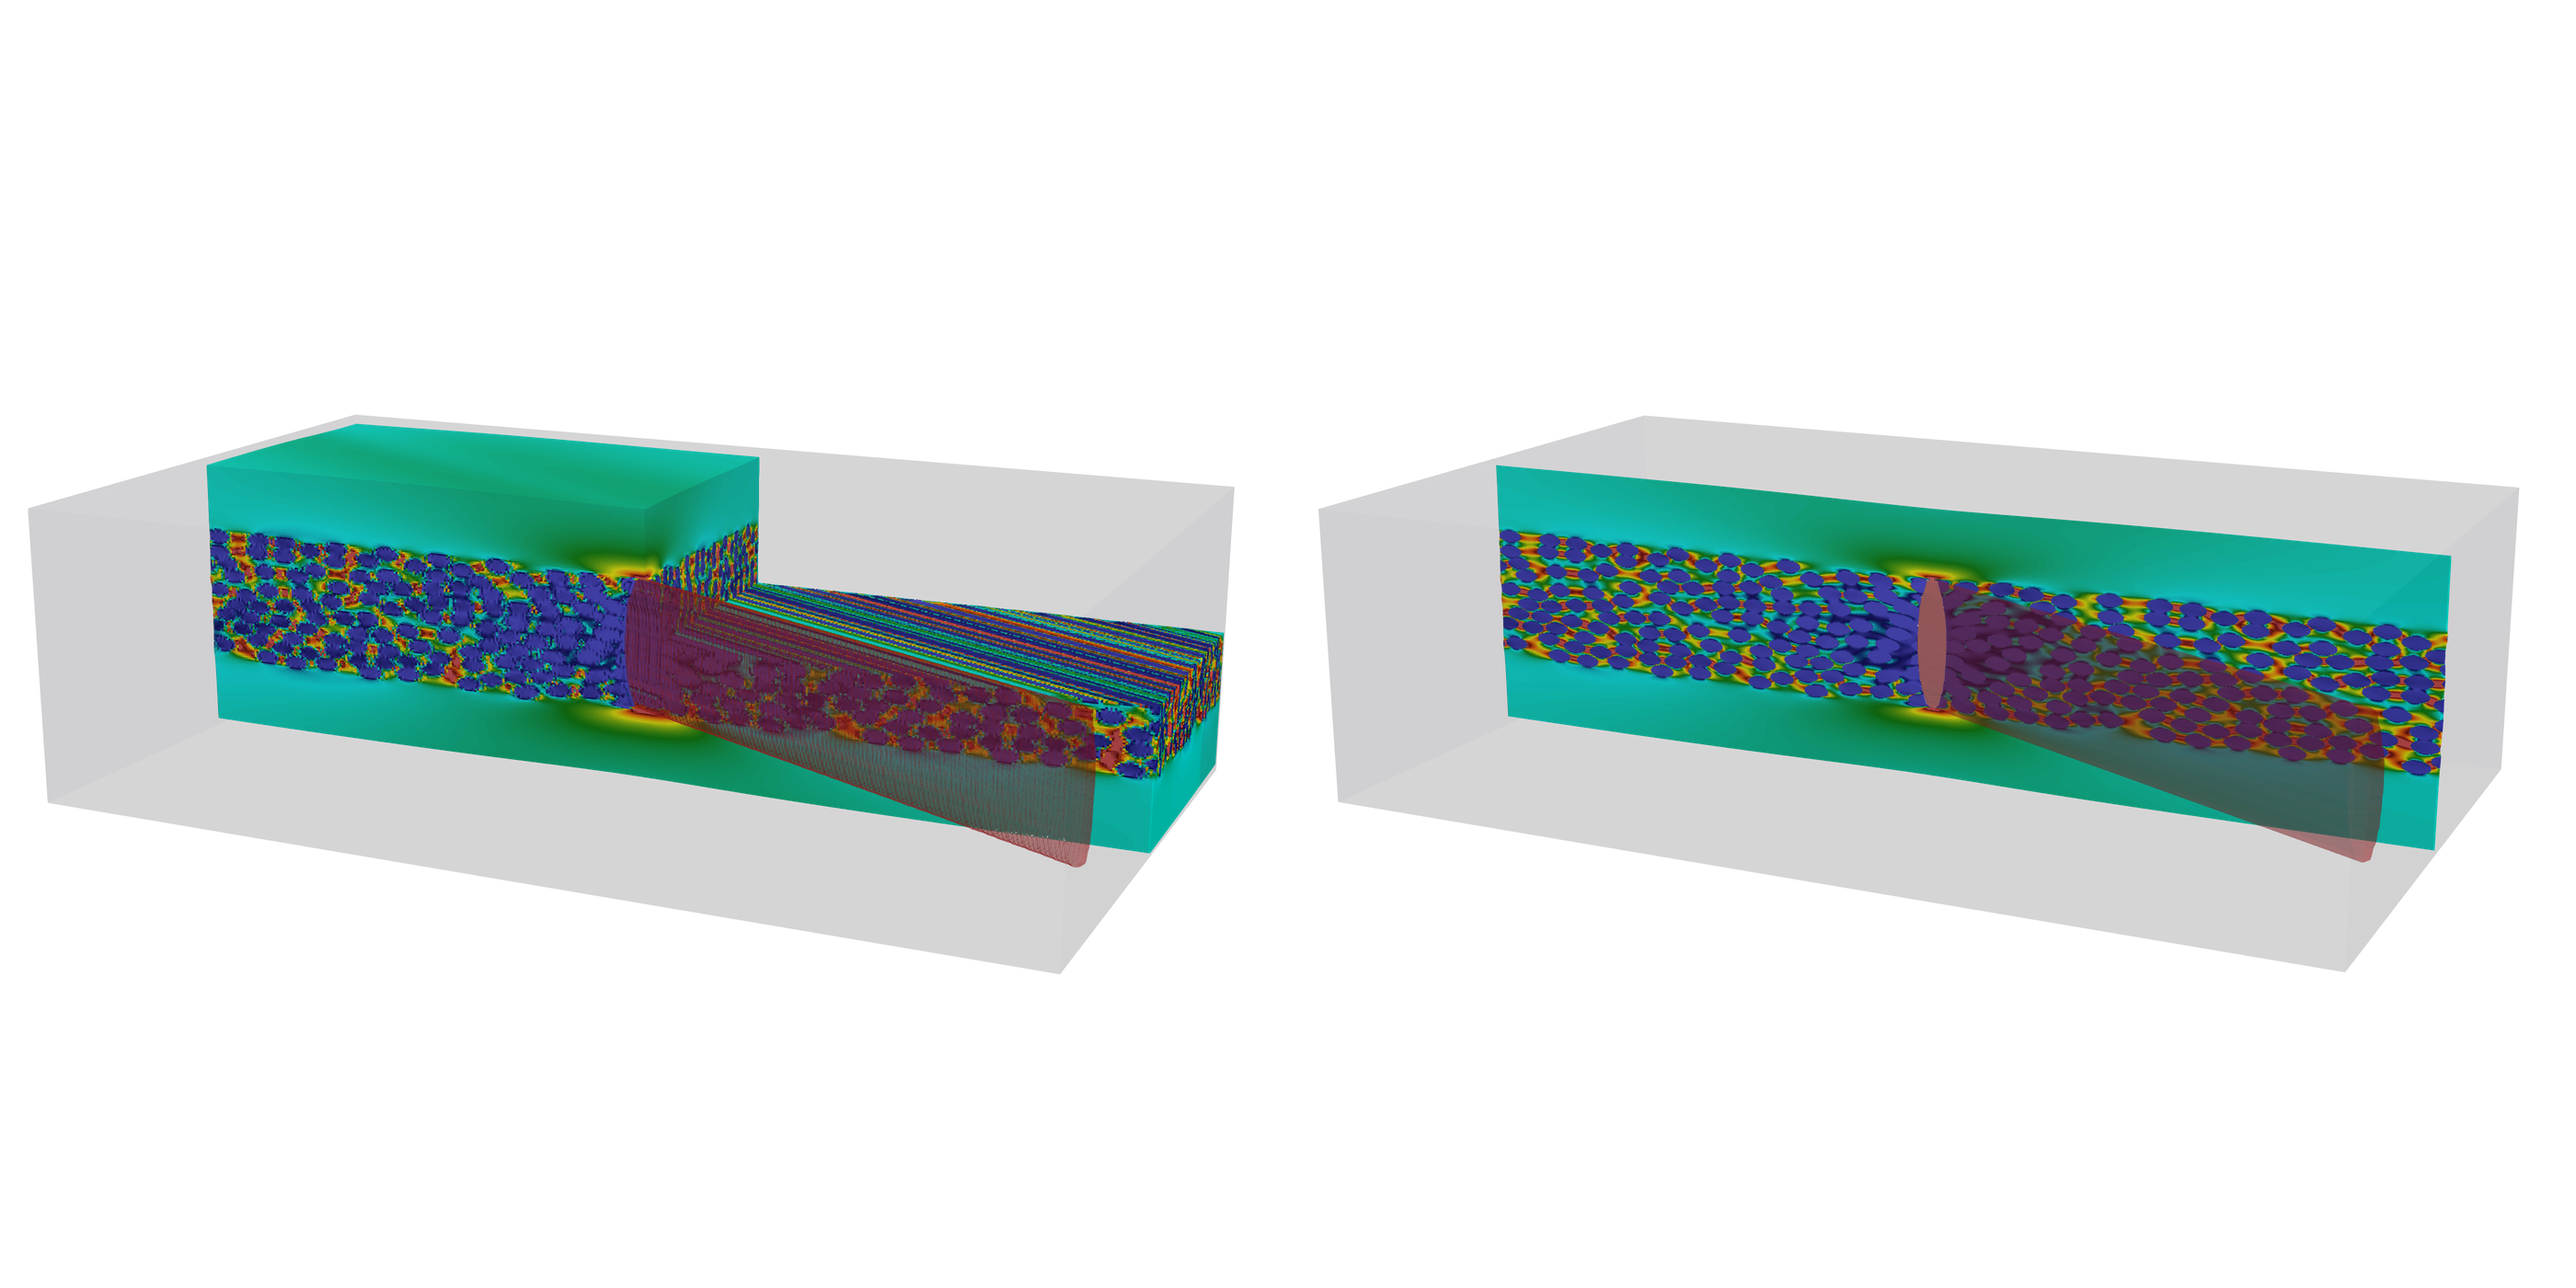
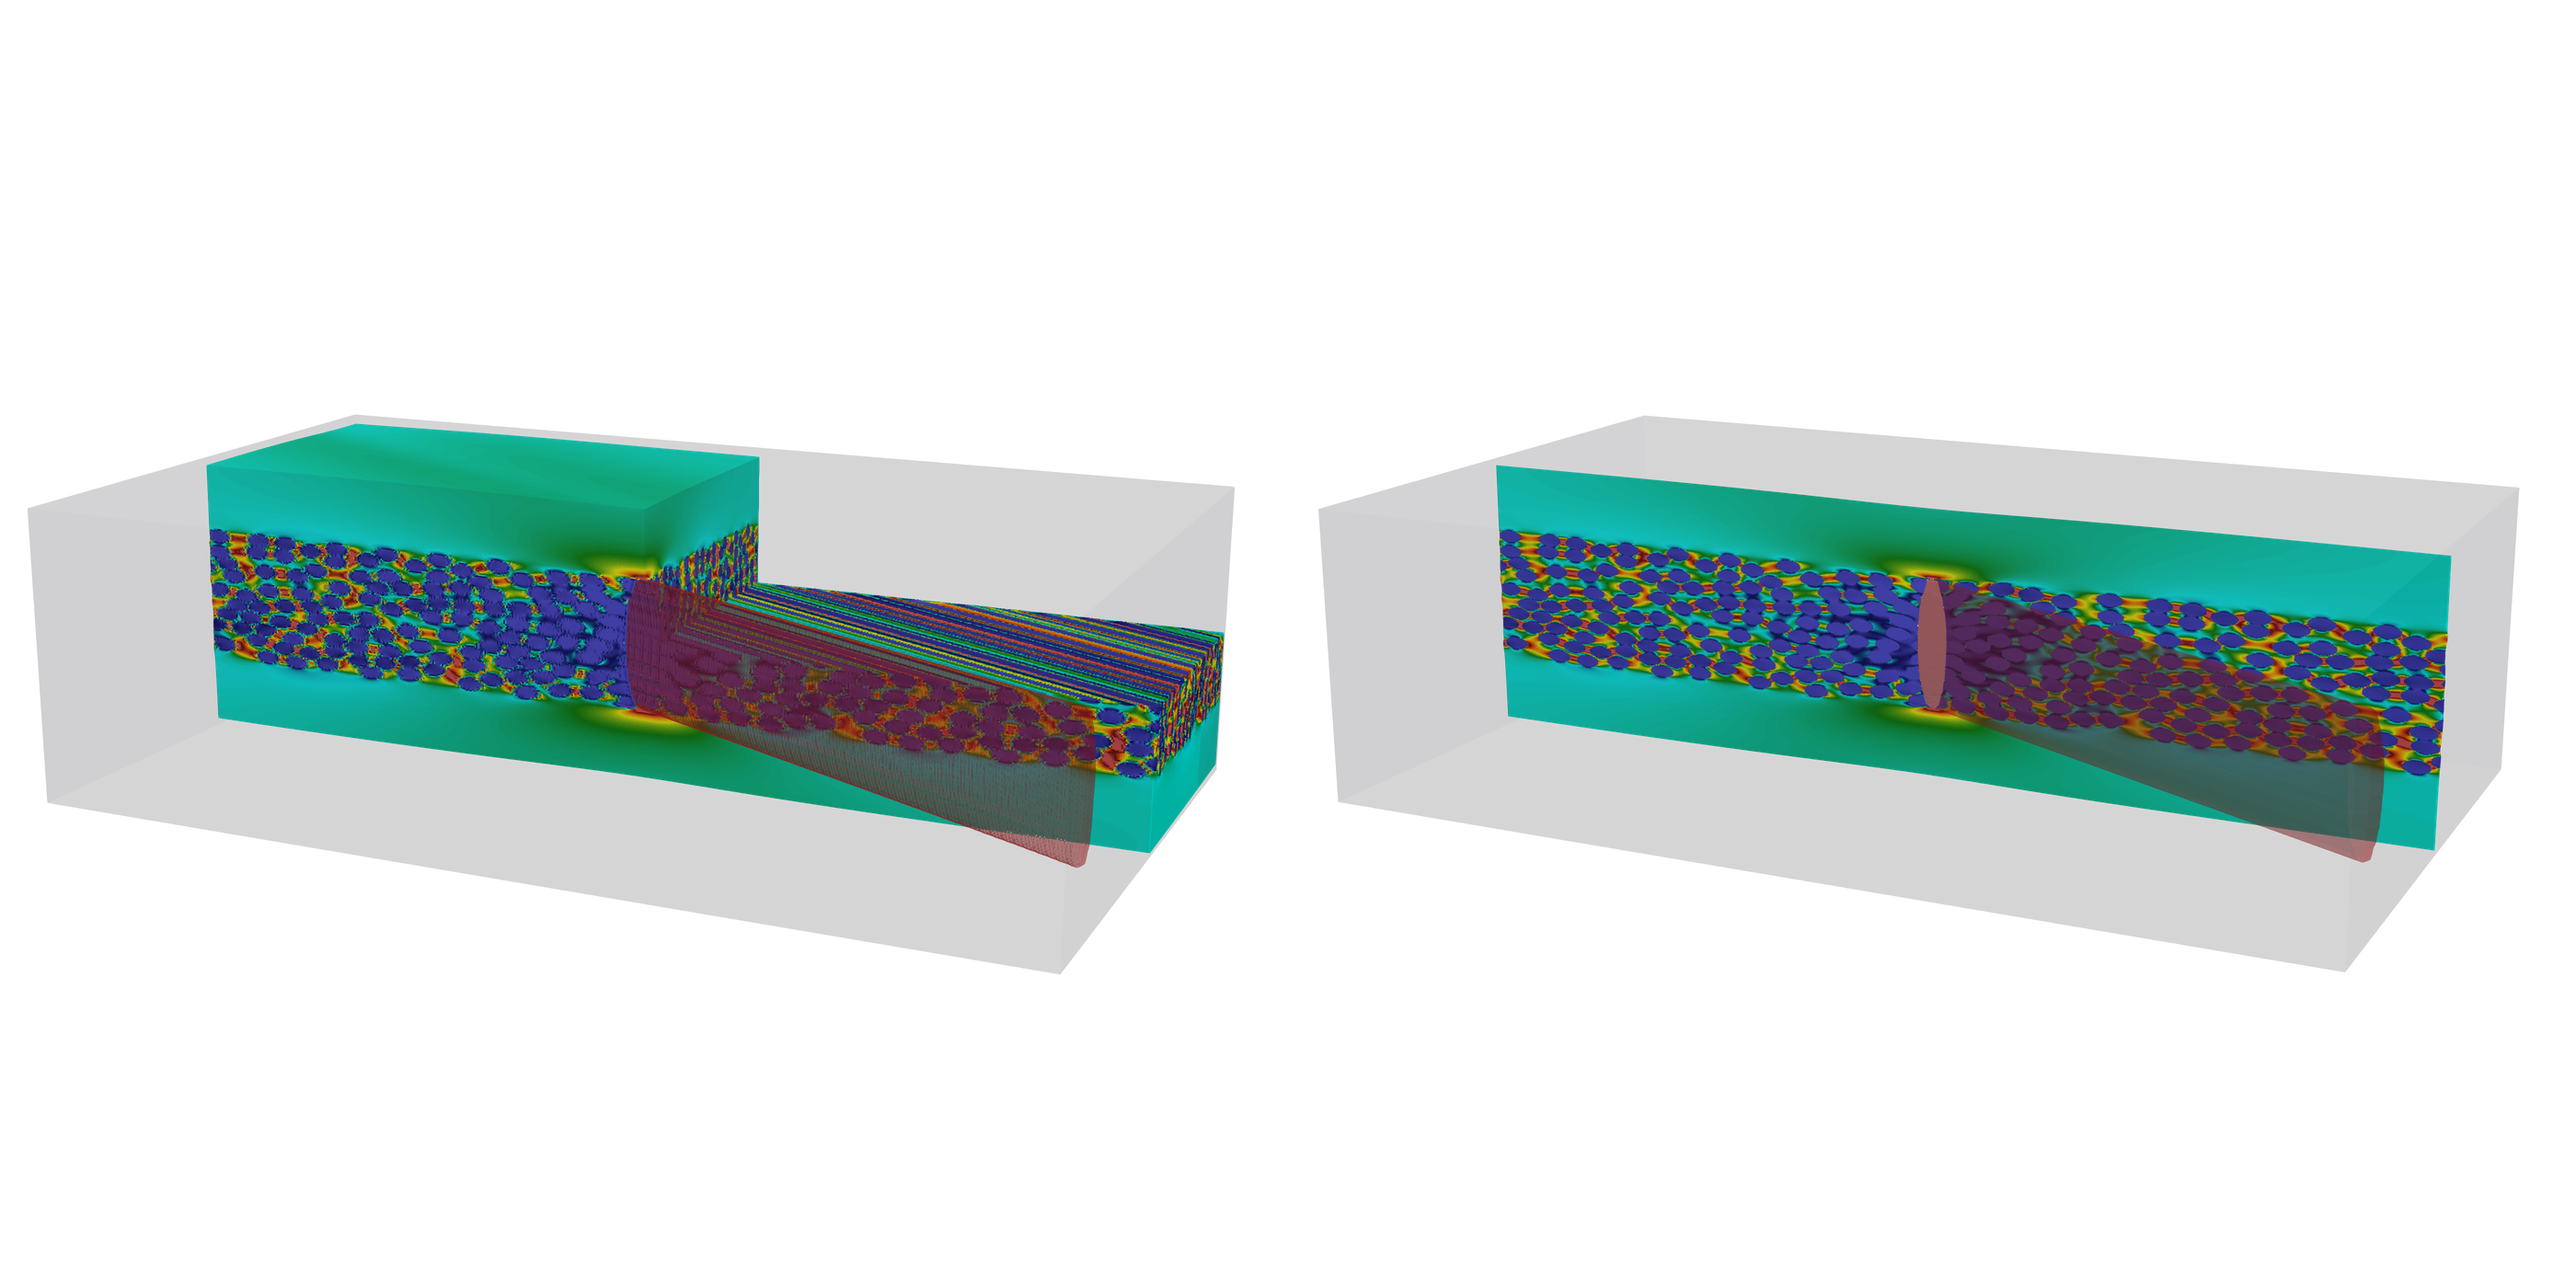
cuvox: the 3D model at 50 voxels per ply (506M dofs on a 32 GB GPU)
tunnel_crack.py: 53 instead of 127 bytes per degree of freedom: one 3D model at a time (the
intact one was kept alive through the cracked solve), the solution in the prescribed
values' buffer, no load array in 3D, uint8 labels and float32 coordinates while labelling,
the strain along the load from the displacement instead of the full gradient field.
README and figure: the 3D model within 3.7 % of the off-axis one's G at its resolution,
two solves in 14 s on an RTX 5090.

Changed region(s): [[0.0621, 0.3993, 0.4971, 0.6143]]

diff --git a/cuvox/tunnel_crack.py b/cuvox/tunnel_crack.py
@@ -18,7 +18,7 @@ RESULTS = Path(__file__).parent / "results"
 # -------------------------------------- settings -------------------------------------
 # discretization
 PLY_VOXELS_2D = 128  # voxels across one ply of the off-axis model
-PLY_VOXELS = 38  # of the 3D model: 223M dofs, 28 GB of a 32 GB GPU (lower it for less)
+PLY_VOXELS = 50  # of the 3D model: 506M dofs, 27 GB of a 32 GB GPU (lower it for less)
 
 # geometry, mm: the laminate [0/theta]s loaded along x, a tunnel crack in its theta plies
 PLY = 0.1  # ply thickness
@@ -104,11 +104,13 @@ def middle_plies(y: cp.ndarray) -> cp.ndarray:
 def labels_of(n: cp.ndarray, y: cp.ndarray, void: cp.ndarray) -> cp.ndarray:
     """Label 0 the 0 plies, 1 the fibres, 2 the matrix, 3 void, at the points (n, y)."""
     fibre = cp.zeros(void.shape, bool)
+    n, y = n.astype(cp.float32), y.astype(cp.float32)  # the broadcast temporaries
     for cn, cy in centres:
         dn = (n - cn + PERIOD / 2) % PERIOD - PERIOD / 2
         fibre |= dn**2 + (y - cy) ** 2 < FIBRE_RADIUS**2
-    labels = cp.where(middle_plies(y), cp.where(fibre, 1, 2), 0)
-    return cp.where(void, 3, labels).astype(cp.uint8)
+    u8 = cp.uint8
+    labels = cp.where(middle_plies(y), cp.where(fibre, u8(1), u8(2)), u8(0))
+    return cp.where(void, u8(3), labels)
 
 
 def section_labels(d: Discretization, cracked: bool) -> cp.ndarray:
@@ -140,7 +142,7 @@ def farfield_displacement(nodes: tuple[int, ...], h: float) -> cp.ndarray:
 
 
 def solve(labels: cp.ndarray, h: float):
-    """The strain energy, the displacement u and the model of the voxel `labels` of edge `h`.
+    """The strain energy and the displacement u of the voxel `labels` of edge `h`.
 
     2D: the off-axis model, nothing varying along t, per unit length along z; u the
     fluctuation about the far field, which enters as the load of an eigenstrain. 3D: a
@@ -162,10 +164,10 @@ def solve(labels: cp.ndarray, h: float):
     )
 
     # 2D: the nodal loads of the far-field strain, -h B^T C e per voxel centre, and the
-    # far field's energy; 3D: the far-field displacement on the fixed dofs
-    load = cp.zeros(space.shape, cp.float32)
-    prescribed, farfield_energy = cp.zeros(space.shape, cp.float32), 0.0
+    # far field's energy; 3D: the far-field displacement on the fixed dofs, in place
+    load, prescribed, farfield_energy = None, None, 0.0
     if ndim == 2:
+        load = cp.zeros(space.shape, cp.float32)
         B = kind(materials[0]).kinematics(centre_gradients(2, 1))
         nx, ny = labels.shape
         for k, material in enumerate(materials):
@@ -178,21 +180,31 @@ def solve(labels: cp.ndarray, h: float):
             energy = 0.5 * float(farfield @ np.array(material.C) @ farfield)
             farfield_energy += energy * float(coefficient.sum()) * h**2
     else:
-        prescribed = farfield_displacement(space.nodes, h) * fixed
-    u, iterations = model.solve(load, prescribed=prescribed, rtol=ETA, maxiter=MAXITER)
+        prescribed = farfield_displacement(space.nodes, h)
+        prescribed *= fixed
+    del fixed
+    u, iterations = model.solve(
+        load, prescribed=prescribed, rtol=ETA, maxiter=MAXITER, out=prescribed
+    )
     print(f"  {ndim}D, {u.size} dofs, {iterations} iterations")
 
     # U = u^T A u / 2 - u . f + the far field's energy
-    return model.energy(u) - float(cp.vdot(u, load)) + farfield_energy, u, model
+    work = 0.0 if load is None else float(cp.vdot(u, load))
+    return model.energy(u) - work + farfield_energy, u
 
 
-def fields(u: cp.ndarray, model: Elasticity, labels: cp.ndarray) -> dict:
-    """The strain along the load per voxel, far field included, and the solid voxels."""
-    strain = model.gradient(u)[0, 0]  # du/dx, the same in the off-axis model
-    if labels.ndim == 2:  # the fluctuation's, plus the far field
+def fields(u: cp.ndarray, labels: cp.ndarray, h: float) -> dict:
+    """The strain along the load per voxel, far field included, and the solid voxels: du/dx at the voxel centres, the mean of the voxel's edges along x."""
+    ux, ndim = u[0], labels.ndim
+    strain = cp.zeros(labels.shape, cp.float32)
+    for corner in itertools.product((0, 1), repeat=ndim - 1):
+        edge = tuple(slice(o, o + n) for o, n in zip(corner, labels.shape[1:]))
+        strain += ux[(slice(1, None), *edge)] - ux[(slice(None, -1), *edge)]
+    strain /= 2 ** (ndim - 1) * h
+    if ndim == 2:  # the fluctuation's, plus the far field
         strain += farfield[0]
     solid = labels != 3
-    return {"strain": cp.where(solid, strain, 0), "solid": solid}
+    return {"strain": cp.where(solid, strain, cp.float32(0)), "solid": solid}
 
 
 def write(path: Path, u: cp.ndarray, cells: dict, h: float) -> None:
@@ -219,29 +231,33 @@ def write(path: Path, u: cp.ndarray, cells: dict, h: float) -> None:
 fine, coarse = discretization(PLY_VOXELS_2D), discretization(PLY_VOXELS)
 cp.cuda.Stream.null.synchronize()
 tic = time.time()
-intact, _, _ = solve(section_labels(fine, False), fine.h)
+intact = solve(section_labels(fine, False), fine.h)[0]
 labels2D = section_labels(fine, True)
-cracked, u2D, model2D = solve(labels2D, fine.h)
+cracked, u2D = solve(labels2D, fine.h)
 cp.cuda.Stream.null.synchronize()
 print(f"off-axis model {fine.section}: 2 solves in {time.time() - tic:.2f} s")
 G = (intact - cracked) / (2 * PLY / s)
 print(f"tunnel crack G {G:.4e} N/mm")
 RESULTS.mkdir(exist_ok=True)
-write(RESULTS / "tunnel_crack2D.vtk", u2D, fields(u2D, model2D, labels2D), fine.h)
-del u2D, model2D, labels2D
+write(RESULTS / "tunnel_crack2D.vtk", u2D, fields(u2D, labels2D, fine.h), fine.h)
+del u2D, labels2D
 
 # the off-axis model at the 3D model's voxels, for the comparison
-intact2D, _, _ = solve(section_labels(coarse, False), coarse.h)
-cracked2D, u2D, _ = solve(section_labels(coarse, True), coarse.h)
+intact2D = solve(section_labels(coarse, False), coarse.h)[0]
+cracked2D, u2D = solve(section_labels(coarse, True), coarse.h)
 G2D = (intact2D - cracked2D) / (2 * PLY / s)
 print(f"at the 3D model's voxels G {G2D:.4e} N/mm")
 
 # the 3D model, intact and cracked; the crack's area 2 PLY times its length WIDTH / sin
 cp.cuda.Stream.null.synchronize()
 tic = time.time()
-intact3D, _, _ = solve(box_labels(coarse, False), coarse.h)
+pool = cp.get_default_memory_pool()
+pool.free_all_blocks()  # the 2D models' blocks, before the largest allocations
+intact3D = solve(box_labels(coarse, False), coarse.h)[0]
+pool.free_all_blocks()  # the intact model's
 labels3D = box_labels(coarse, True)
-cracked3D, u3D, model3D = solve(labels3D, coarse.h)
+cracked3D, u3D = solve(labels3D, coarse.h)
+pool.free_all_blocks()  # the cracked model's
 cp.cuda.Stream.null.synchronize()
 print(f"3D model {coarse.box}: 2 solves in {time.time() - tic:.2f} s")
 G3D = (intact3D - cracked3D) / (2 * PLY * WIDTH / s)
@@ -253,6 +269,6 @@ print(f"3D: G {G3D:.4e} N/mm (the crack's ends at the faces z included), mid-dep
 print(f"displacement off the off-axis one by {float(gap):.2e} of its fluctuation")
 
 # ----------------------------------- postprocessing ----------------------------------
-write(RESULTS / "tunnel_crack3D.vtk", u3D, fields(u3D, model3D, labels3D), coarse.h)
+write(RESULTS / "tunnel_crack3D.vtk", u3D, fields(u3D, labels3D, coarse.h), coarse.h)
 
 assert abs(G / RECORDED - 1) < 1e-2, G

diff --git a/cuvox/README.md b/cuvox/README.md
@@ -31,7 +31,7 @@ It writes `results/tunnel_crack2D.vtk` and `results/tunnel_crack3D.vtk` (the 3D 
 | model | voxels | degrees of freedom | G (N/mm) |
 |---|---|---|---|
 | off-axis, 128 voxels per ply | 3584 × 512 | 5.5M | 5.595e-4 |
-| off-axis, 38 voxels per ply | 1064 × 152 | 0.49M | 6.458e-4 |
-| 3D, 38 voxels per ply | 1590 × 152 × 304 | 223M | 7.294e-4 |
+| off-axis, 50 voxels per ply | 1400 × 200 | 0.84M | 6.156e-4 |
+| 3D, 50 voxels per ply | 2092 × 200 × 400 | 506M | 6.383e-4 |
 
-The 3D model exceeds the off-axis one at its resolution by 13 % and its section at mid-depth differs from the off-axis model's by 14 % of the displacement: the crack ends on the gripped faces of the block, and 38 voxels per ply resolve the inclined fibres coarsely (the difference in G was 20 % at 32 voxels per ply). The 3D model at its default needs about 28 GB, a 32 GB GPU; `PLY_VOXELS` lowers it (32: 133M degrees of freedom, within 16 GB). Its two solves take 58 s on an RTX 5090, kernel compilation included; the off-axis model's 1.6 s.
+The 3D model exceeds the off-axis one at its resolution by 3.7 % and its section at mid-depth differs from the off-axis model's by 15 % of the displacement: the crack ends on the gripped faces of the block, and the voxels resolve the inclined fibres more coarsely than the off-axis model's ellipses (the difference in G was 13 % at 38 voxels per ply, 20 % at 32). The 3D model at its default needs about 27 GB, a 32 GB GPU; `PLY_VOXELS` lowers it (40: 259M degrees of freedom, about 14 GB). On an RTX 5090 its two solves take 14 s, the off-axis model's 0.4 s.

diff --git a/README.md b/README.md
@@ -4,7 +4,7 @@ Tunnel cracks and delamination in laminates with the off-axis 2D element: three 
 
 <img src="figures/tunnel_crack.png" width="900" alt="A laminate block with a 30 degree tunnel crack cut open at mid-depth, beside the off-axis 2D model of that section">
 
-*Left: a 3D model of a [0/30]s glass/epoxy laminate loaded along its length, a tunnel crack along the fibres of its 30° plies (fibres explicit), cut open at mid-depth (the cut-away parts translucent, the crack red). Right: the off-axis 2D model of that mid-depth section, its crack carried along the crack's direction. Strain along the load, displacements magnified 150 times. The 3D model has 223M degrees of freedom, two solves in 58 s on an RTX 5090 (kernel compilation included); the off-axis model 5.5M, two solves in 1.6 s; both with [cuvox](cuvox/).*
+*Left: a 3D model of a [0/30]s glass/epoxy laminate loaded along its length, a tunnel crack along the fibres of its 30° plies (fibres explicit), cut open at mid-depth (the cut-away parts translucent, the crack red). Right: the off-axis 2D model of that mid-depth section, its crack carried along the crack's direction. Strain along the load, displacements magnified 150 times. The 3D model has 506M degrees of freedom, two solves in 14 s on an RTX 5090; the off-axis model 5.5M, two solves in 0.4 s; both with [cuvox](cuvox/).*
 
 | folder | implementation |
 |---|---|
